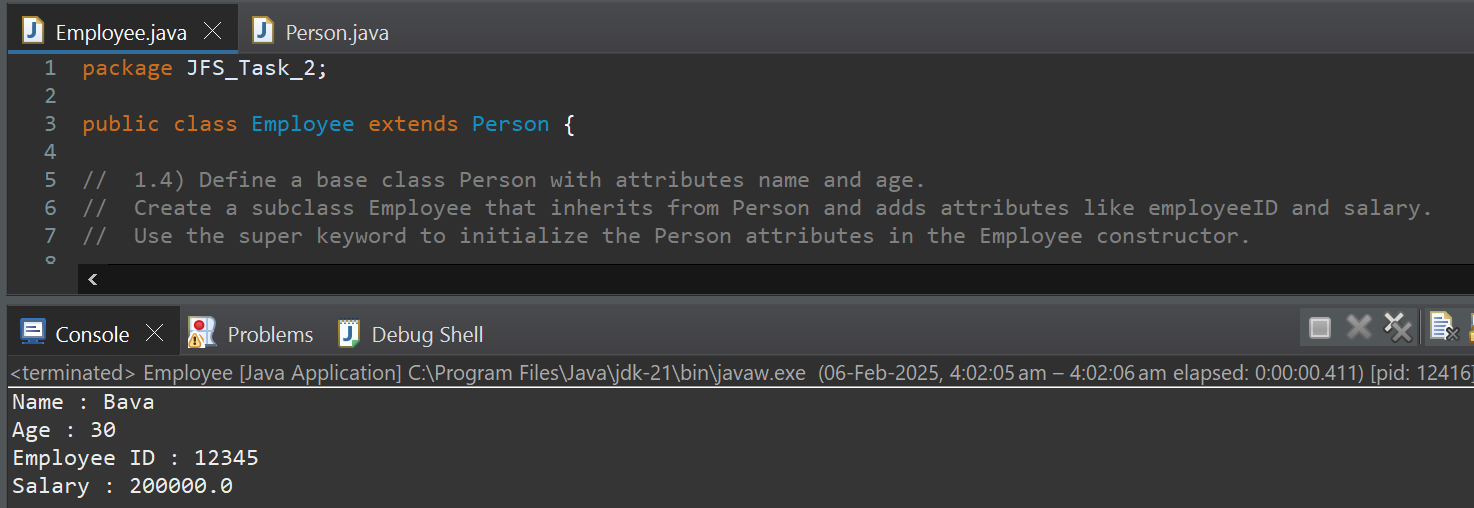
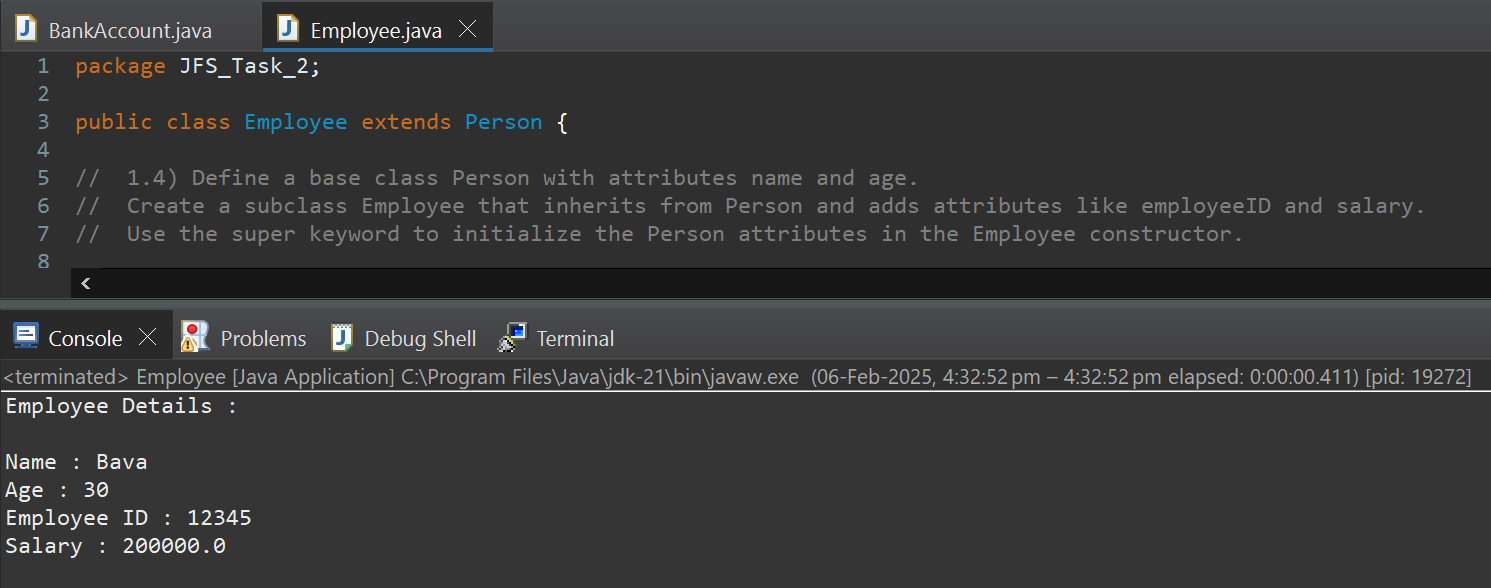
Employee.png changed

Changed region(s): [[0.0, 0.0, 1.0, 1.0]]

diff --git a/src/JFS_Task_2/Employee.java b/src/JFS_Task_2/Employee.java
@@ -30,7 +30,7 @@ public class Employee extends Person {
 
 	// Display employee details
 	public void DisplayEmployeeDetails() {
-		System.out.println("Employee Details");
+		System.out.println("Employee Details : ");
 		System.out.println("");
 		// call method from subclass
 		super.DisplayPersonalDetails();
